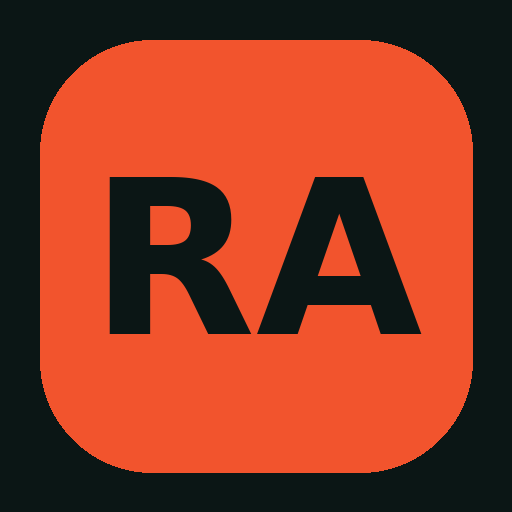
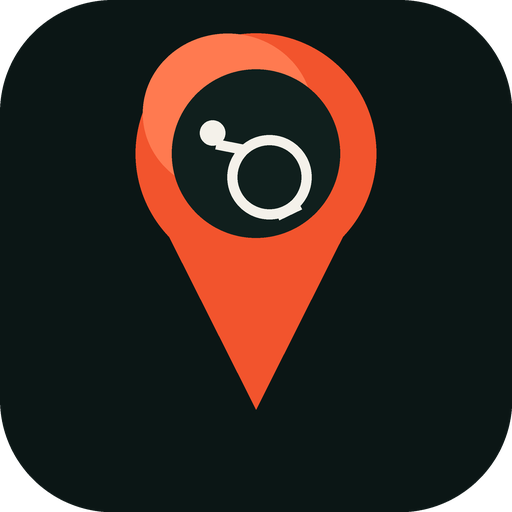
Add files via upload

diff --git a/index.html b/index.html
@@ -3,8 +3,8 @@
 <head>
 <meta charset="UTF-8">
 <meta name="viewport" content="width=device-width, initial-scale=1, maximum-scale=5">
-<title>Rota Acessível Paulista — Mapa de mobilidade urbana</title>
-<meta name="description" content="Mapa interativo de acessibilidade e mobilidade da cidade de Paulista (PE): sua localização em tempo real, busca de ruas, bairros e comércios, e busca por voz.">
+<title>Rota Acessível — Mobilidade e acessibilidade urbana</title>
+<meta name="description" content="Rota Acessível: mapa interativo de mobilidade e acessibilidade urbana em Paulista (PE) — localização em tempo real, busca por voz, filtro de locais acessíveis para cadeirantes e aviso de obstáculos.">
 
 <!-- PWA: instalável na tela inicial -->
 <link rel="manifest" href="manifest.json">
@@ -83,8 +83,83 @@
     max-width:100vw;
     overflow-x:hidden;
     display:grid;
-    grid-template-rows:auto 1fr;
+    grid-template-rows:auto 1fr auto;
   }
+  .topbar{ grid-row:1; }
+  .page{ grid-row:2; min-height:0; }
+  .bottom-nav{ grid-row:3; }
+
+  /* ---------- Páginas de texto (Acessibilidade / Sobre) ---------- */
+  .page-plain{
+    overflow-y:auto;
+    background:var(--ink-900);
+  }
+  .page-inner{
+    max-width:640px;
+    margin:0 auto;
+    padding:22px 18px 32px;
+  }
+  .page-inner h2{
+    font-family:var(--font-display);
+    font-size:calc(21px * var(--font-scale, 1));
+    margin:0 0 6px;
+  }
+  .page-lead{
+    font-size:calc(13.5px * var(--font-scale, 1));
+    color:var(--sand-200);
+    line-height:1.55;
+    margin:0 0 20px;
+  }
+  .a11y-card{
+    background:var(--ink-700);
+    border:1px solid var(--line);
+    border-radius:var(--radius-md);
+    padding:16px;
+    margin-bottom:12px;
+  }
+  .a11y-card strong{
+    display:block;
+    font-family:var(--font-display);
+    font-size:calc(14.5px * var(--font-scale, 1));
+    margin-bottom:4px;
+  }
+  .a11y-card small{
+    display:block;
+    font-size:calc(12.5px * var(--font-scale, 1));
+    color:var(--sand-200);
+    line-height:1.5;
+  }
+  .a11y-card--info{ background:transparent; border-style:dashed; }
+  .a11y-card .a11y-toggle{ align-items:flex-start; gap:12px; }
+  .a11y-card .a11y-toggle .switch{ margin-top:2px; }
+
+  /* ---------- Barra de navegação inferior ---------- */
+  .bottom-nav{
+    z-index:900;
+    display:flex;
+    background:var(--ink-800);
+    border-top:1px solid var(--line);
+    padding-bottom:env(safe-area-inset-bottom, 0);
+  }
+  .nav-btn{
+    flex:1;
+    display:flex;
+    flex-direction:column;
+    align-items:center;
+    gap:3px;
+    padding:9px 4px calc(9px + env(safe-area-inset-bottom, 0));
+    background:transparent;
+    border:none;
+    color:var(--sand-200);
+    font-family:var(--font-body);
+    font-weight:600;
+    font-size:calc(10.5px * var(--font-scale, 1));
+    cursor:pointer;
+  }
+  .nav-btn svg{ width:21px; height:21px; }
+  .nav-btn.active{ color:var(--coral-400); }
+  .nav-btn:hover{ color:var(--sand-100); }
+  .nav-btn.active:hover{ color:var(--coral-400); }
 
   /* ---------- Top bar ---------- */
   .topbar{
@@ -95,6 +170,7 @@
     flex-direction:column;
     gap:12px;
   }
+  .topbar[hidden]{ display:none; }
 
   .brand{
     display:flex;
@@ -102,13 +178,13 @@
     gap:10px;
   }
   .brand__mark{
-    width:34px; height:34px; flex:none;
-    border-radius:9px;
-    background:linear-gradient(135deg, var(--coral-500), var(--coral-400));
+    width:36px; height:36px; flex:none;
+    border-radius:10px;
+    background:var(--ink-800);
     display:grid; place-items:center;
-    font-family:var(--font-display); font-weight:700; color:#111;
-    font-size:calc(15px * var(--font-scale, 1));
+    box-shadow:inset 0 0 0 1px var(--line);
   }
+  .brand__mark svg{ display:block; width:62%; height:62%; }
   .brand__text{ min-width:0; }
   .brand__text h1{
     font-family:var(--font-display);
@@ -205,12 +281,6 @@
   }
 
   /* ---------- Toggle de acessibilidade (cadeirantes) ---------- */
-  .a11y-panel{
-    display:flex;
-    flex-wrap:wrap;
-    align-items:center;
-    gap:8px 16px;
-  }
   .a11y-toggle{
     display:flex;
     align-items:center;
@@ -259,21 +329,30 @@
   .font-size-control{
     display:flex;
     align-items:center;
-    gap:6px;
+    justify-content:space-between;
+    gap:14px;
   }
-  .font-size-control__label{
+  .font-size-control__label{ min-width:0; }
+  .font-size-control__label strong{
+    display:block;
+    font-family:var(--font-display);
+    font-size:calc(14.5px * var(--font-scale, 1));
+    margin-bottom:4px;
+  }
+  .font-size-control__label small{
+    display:block;
     font-size:calc(12.5px * var(--font-scale, 1));
-    font-weight:600;
-    color:var(--sand-100);
-    margin-right:2px;
+    color:var(--sand-200);
+    line-height:1.5;
   }
+  .fs-buttons{ display:flex; gap:6px; flex:none; }
   .fs-btn{
     flex:none;
-    min-width:32px; height:30px;
+    min-width:34px; height:34px;
     padding:0 8px;
     border-radius:9px;
     border:1px solid var(--line);
-    background:var(--ink-700);
+    background:var(--ink-800);
     color:var(--sand-100);
     font-family:var(--font-body);
     font-weight:700;
@@ -644,7 +723,7 @@
   @media (max-width:700px){
     .topbar{ padding:10px 10px 18px; gap:9px; }
     .brand{ gap:8px; }
-    .brand__mark{ width:26px; height:26px; border-radius:7px; font-size:calc(12px * var(--font-scale, 1)); }
+    .brand__mark{ width:28px; height:28px; border-radius:8px; }
     .brand__text h1{ font-size:calc(13px * var(--font-scale, 1)); }
     .brand__text p{ font-size:calc(9.5px * var(--font-scale, 1)); }
     .search-row{ gap:6px; }
@@ -696,6 +775,10 @@
     .fab-stack{ right:24px; bottom:24px; }
     .scale-readout{ left:24px; bottom:24px; }
     .geo-banner{ top:18px; left:24px; right:auto; width:420px; }
+    .bottom-nav{ justify-content:center; gap:6px; }
+    .nav-btn{ flex:none; flex-direction:row; gap:8px; padding:12px 22px; font-size:calc(13px * var(--font-scale, 1)); }
+    .nav-btn svg{ width:18px; height:18px; }
+    .page-inner{ padding:36px 24px 40px; }
   }
 </style>
 </head>
@@ -707,10 +790,26 @@
 
   <header class="topbar">
     <div class="brand">
-      <div class="brand__mark" aria-hidden="true">RA</div>
+      <div class="brand__mark" aria-hidden="true">
+        <svg viewBox="0 0 100 100">
+          <defs>
+            <linearGradient id="pinGrad" x1="0" y1="0" x2="100" y2="100" gradientUnits="userSpaceOnUse">
+              <stop offset="0" stop-color="#FF7A50"/>
+              <stop offset="1" stop-color="#F2542D"/>
+            </linearGradient>
+          </defs>
+          <circle cx="50" cy="38" r="30" fill="url(#pinGrad)"/>
+          <polygon points="30,50 70,50 50,88" fill="url(#pinGrad)"/>
+          <circle cx="50" cy="38" r="21" fill="#101F1D"/>
+          <circle cx="55" cy="44" r="13" fill="none" stroke="#F4F1EA" stroke-width="3"/>
+          <circle cx="36" cy="28" r="4" fill="#F4F1EA"/>
+          <line x1="38" y1="31" x2="45" y2="38" stroke="#F4F1EA" stroke-width="3" stroke-linecap="round"/>
+          <line x1="46" y1="55" x2="58" y2="51" stroke="#F4F1EA" stroke-width="3" stroke-linecap="round"/>
+        </svg>
+      </div>
       <div class="brand__text">
-        <h1>Rota Acessível — Paulista</h1>
-        <p>Mapa de mobilidade e acessibilidade urbana · Projeto de pesquisa</p>
+        <h1>Rota Acessível</h1>
+        <p>Mobilidade e acessibilidade urbana em Paulista, PE</p>
       </div>
     </div>
 
@@ -744,30 +843,9 @@
       <button class="chip" data-tags="amenity=bank" data-singular="Banco">Bancos</button>
       <button class="chip" data-tags="wheelchair=yes" data-singular="Local acessível">♿ Acessíveis</button>
     </div>
-
-    <div class="a11y-panel">
-      <label class="a11y-toggle" for="wheelchair-toggle">
-        <input type="checkbox" id="wheelchair-toggle">
-        <span class="switch" aria-hidden="true"></span>
-        <span>Mostrar só locais com acesso para cadeirantes</span>
-      </label>
-
-      <label class="a11y-toggle" for="tts-toggle" id="tts-toggle-label">
-        <input type="checkbox" id="tts-toggle">
-        <span class="switch" aria-hidden="true"></span>
-        <span>🔊 Ler resultados em voz alta</span>
-      </label>
-
-      <div class="font-size-control" role="group" aria-label="Tamanho do texto">
-        <span class="font-size-control__label">Tamanho do texto</span>
-        <button type="button" class="fs-btn" id="font-decrease" aria-label="Diminuir tamanho do texto">A-</button>
-        <button type="button" class="fs-btn" id="font-reset" aria-label="Tamanho de texto padrão">A</button>
-        <button type="button" class="fs-btn" id="font-increase" aria-label="Aumentar tamanho do texto">A+</button>
-      </div>
-    </div>
   </header>
 
-  <main class="map-wrap">
+  <main class="page map-wrap" data-page="map">
     <div id="map" role="application" aria-label="Mapa interativo da cidade de Paulista"></div>
 
     <div class="geo-banner" id="geo-banner">
@@ -854,6 +932,101 @@
       </div>
     </section>
   </main>
+
+  <section class="page page-plain" id="page-a11y" data-page="a11y" hidden>
+    <div class="page-inner">
+      <h2>Acessibilidade</h2>
+      <p class="page-lead">Ajuste o Rota Acessível do jeito que funciona melhor para você. As preferências ficam salvas neste navegador.</p>
+
+      <div class="a11y-card">
+        <label class="a11y-toggle" for="wheelchair-toggle">
+          <input type="checkbox" id="wheelchair-toggle">
+          <span class="switch" aria-hidden="true"></span>
+          <span>
+            <strong>Só locais acessíveis</strong>
+            <small>Mostra apenas resultados com acesso para cadeirantes, conforme cadastrado no OpenStreetMap.</small>
+          </span>
+        </label>
+      </div>
+
+      <div class="a11y-card">
+        <label class="a11y-toggle" for="tts-toggle" id="tts-toggle-label">
+          <input type="checkbox" id="tts-toggle">
+          <span class="switch" aria-hidden="true"></span>
+          <span>
+            <strong>🔊 Ler resultados em voz alta</strong>
+            <small>Lê automaticamente os resultados da busca e o local selecionado.</small>
+          </span>
+        </label>
+      </div>
+
+      <div class="a11y-card">
+        <div class="font-size-control" role="group" aria-label="Tamanho do texto">
+          <span class="font-size-control__label">
+            <strong>Tamanho do texto</strong>
+            <small>Aumente ou diminua o tamanho das letras em todo o site.</small>
+          </span>
+          <div class="fs-buttons">
+            <button type="button" class="fs-btn" id="font-decrease" aria-label="Diminuir tamanho do texto">A-</button>
+            <button type="button" class="fs-btn" id="font-reset" aria-label="Tamanho de texto padrão">A</button>
+            <button type="button" class="fs-btn" id="font-increase" aria-label="Aumentar tamanho do texto">A+</button>
+          </div>
+        </div>
+      </div>
+
+      <div class="a11y-card a11y-card--info">
+        <strong>🤟 Tradução para Libras</strong>
+        <small>Toque no ícone azul do VLibras, no canto da tela, para traduzir o conteúdo do site para Língua Brasileira de Sinais.</small>
+      </div>
+
+      <div class="a11y-card a11y-card--info">
+        <strong>📍 Reportar obstáculos</strong>
+        <small>Na página do Mapa, use o botão de alerta (▲) para marcar buracos, calçadas quebradas ou falta de rampas — fica salvo neste aparelho.</small>
+      </div>
+    </div>
+  </section>
+
+  <section class="page page-plain" id="page-about" data-page="about" hidden>
+    <div class="page-inner">
+      <h2>Sobre o projeto</h2>
+      <p class="page-lead">O Rota Acessível é um projeto de pesquisa e desenvolvimento voltado à acessibilidade e mobilidade urbana na cidade de Paulista (PE).</p>
+
+      <div class="a11y-card">
+        <strong>Objetivo</strong>
+        <small>Ajudar pessoas com deficiência ou mobilidade reduzida a encontrar, com mais autonomia, ruas, comércios e serviços com acesso adequado, além de sinalizar obstáculos urbanos.</small>
+      </div>
+
+      <div class="a11y-card">
+        <strong>De onde vêm os dados</strong>
+        <small>Ruas, bairros, comércios e informações de acessibilidade vêm do OpenStreetMap, um mapa colaborativo e gratuito. As imagens de satélite são da Esri/Maxar. A cobertura depende do que já foi cadastrado nessas bases.</small>
+      </div>
+
+      <div class="a11y-card">
+        <strong>Privacidade</strong>
+        <small>Sua localização é usada apenas no seu aparelho, para te posicionar no mapa — não é enviada a nenhum servidor nosso. Os obstáculos que você reporta ficam salvos só neste navegador.</small>
+      </div>
+
+      <div class="a11y-card">
+        <strong>Aviso</strong>
+        <small>Este é um projeto acadêmico/experimental, não substitui sinalização oficial, GPS veicular ou orientação de mobilidade profissional.</small>
+      </div>
+    </div>
+  </section>
+
+  <nav class="bottom-nav" aria-label="Navegação principal">
+    <button type="button" class="nav-btn active" data-page="map" aria-current="page">
+      <svg viewBox="0 0 24 24" fill="none" aria-hidden="true"><path d="M12 21s-7-6.1-7-11a7 7 0 1114 0c0 4.9-7 11-7 11z" stroke="currentColor" stroke-width="2"/><circle cx="12" cy="10" r="2.5" stroke="currentColor" stroke-width="2"/></svg>
+      <span>Mapa</span>
+    </button>
+    <button type="button" class="nav-btn" data-page="a11y">
+      <svg viewBox="0 0 24 24" fill="none" aria-hidden="true"><circle cx="17" cy="17" r="4.5" stroke="currentColor" stroke-width="2"/><circle cx="10" cy="6" r="1.8" fill="currentColor"/><path d="M10 8.5v4.5l4 2 2.5 6M6 13h5" stroke="currentColor" stroke-width="2" stroke-linecap="round" stroke-linejoin="round"/></svg>
+      <span>Acessibilidade</span>
+    </button>
+    <button type="button" class="nav-btn" data-page="about">
+      <svg viewBox="0 0 24 24" fill="none" aria-hidden="true"><circle cx="12" cy="12" r="9" stroke="currentColor" stroke-width="2"/><path d="M12 11v6M12 8h.01" stroke="currentColor" stroke-width="2" stroke-linecap="round"/></svg>
+      <span>Sobre</span>
+    </button>
+  </nav>
 
 </div>
 
@@ -1533,6 +1706,31 @@
   window.addEventListener('appinstalled', function(){
     installBtn.hidden = true;
     announce('Aplicativo instalado com sucesso.');
+  });
+
+  // ---------- Navegação entre páginas (Mapa / Acessibilidade / Sobre) ----------
+  var topbarEl = document.querySelector('.topbar');
+  var pages = document.querySelectorAll('.page');
+  var navButtons = document.querySelectorAll('.nav-btn');
+  var pageLabels = { map:'Mapa', a11y:'Acessibilidade', about:'Sobre o projeto' };
+
+  function setPage(name){
+    pages.forEach(function(p){ p.hidden = (p.dataset.page !== name); });
+    navButtons.forEach(function(btn){
+      var isActive = btn.dataset.page === name;
+      btn.classList.toggle('active', isActive);
+      if(isActive){ btn.setAttribute('aria-current', 'page'); } else { btn.removeAttribute('aria-current'); }
+    });
+    topbarEl.hidden = (name !== 'map');
+    if(name === 'map'){
+      // o mapa pode ter ficado com o tamanho desatualizado enquanto a página estava escondida
+      window.setTimeout(function(){ map.invalidateSize(); }, 50);
+    }
+    announce('Página: ' + pageLabels[name] + '.');
+  }
+
+  navButtons.forEach(function(btn){
+    btn.addEventListener('click', function(){ setPage(btn.dataset.page); });
   });
 
 })();

diff --git a/sw.js b/sw.js
@@ -11,6 +11,7 @@ var APP_SHELL = [
   './manifest.json',
   './icon-192.png',
   './icon-512.png',
+  './icon-512-maskable.png',
   'https://unpkg.com/leaflet@1.9.4/dist/leaflet.css',
   'https://unpkg.com/leaflet@1.9.4/dist/leaflet.js'
 ];
